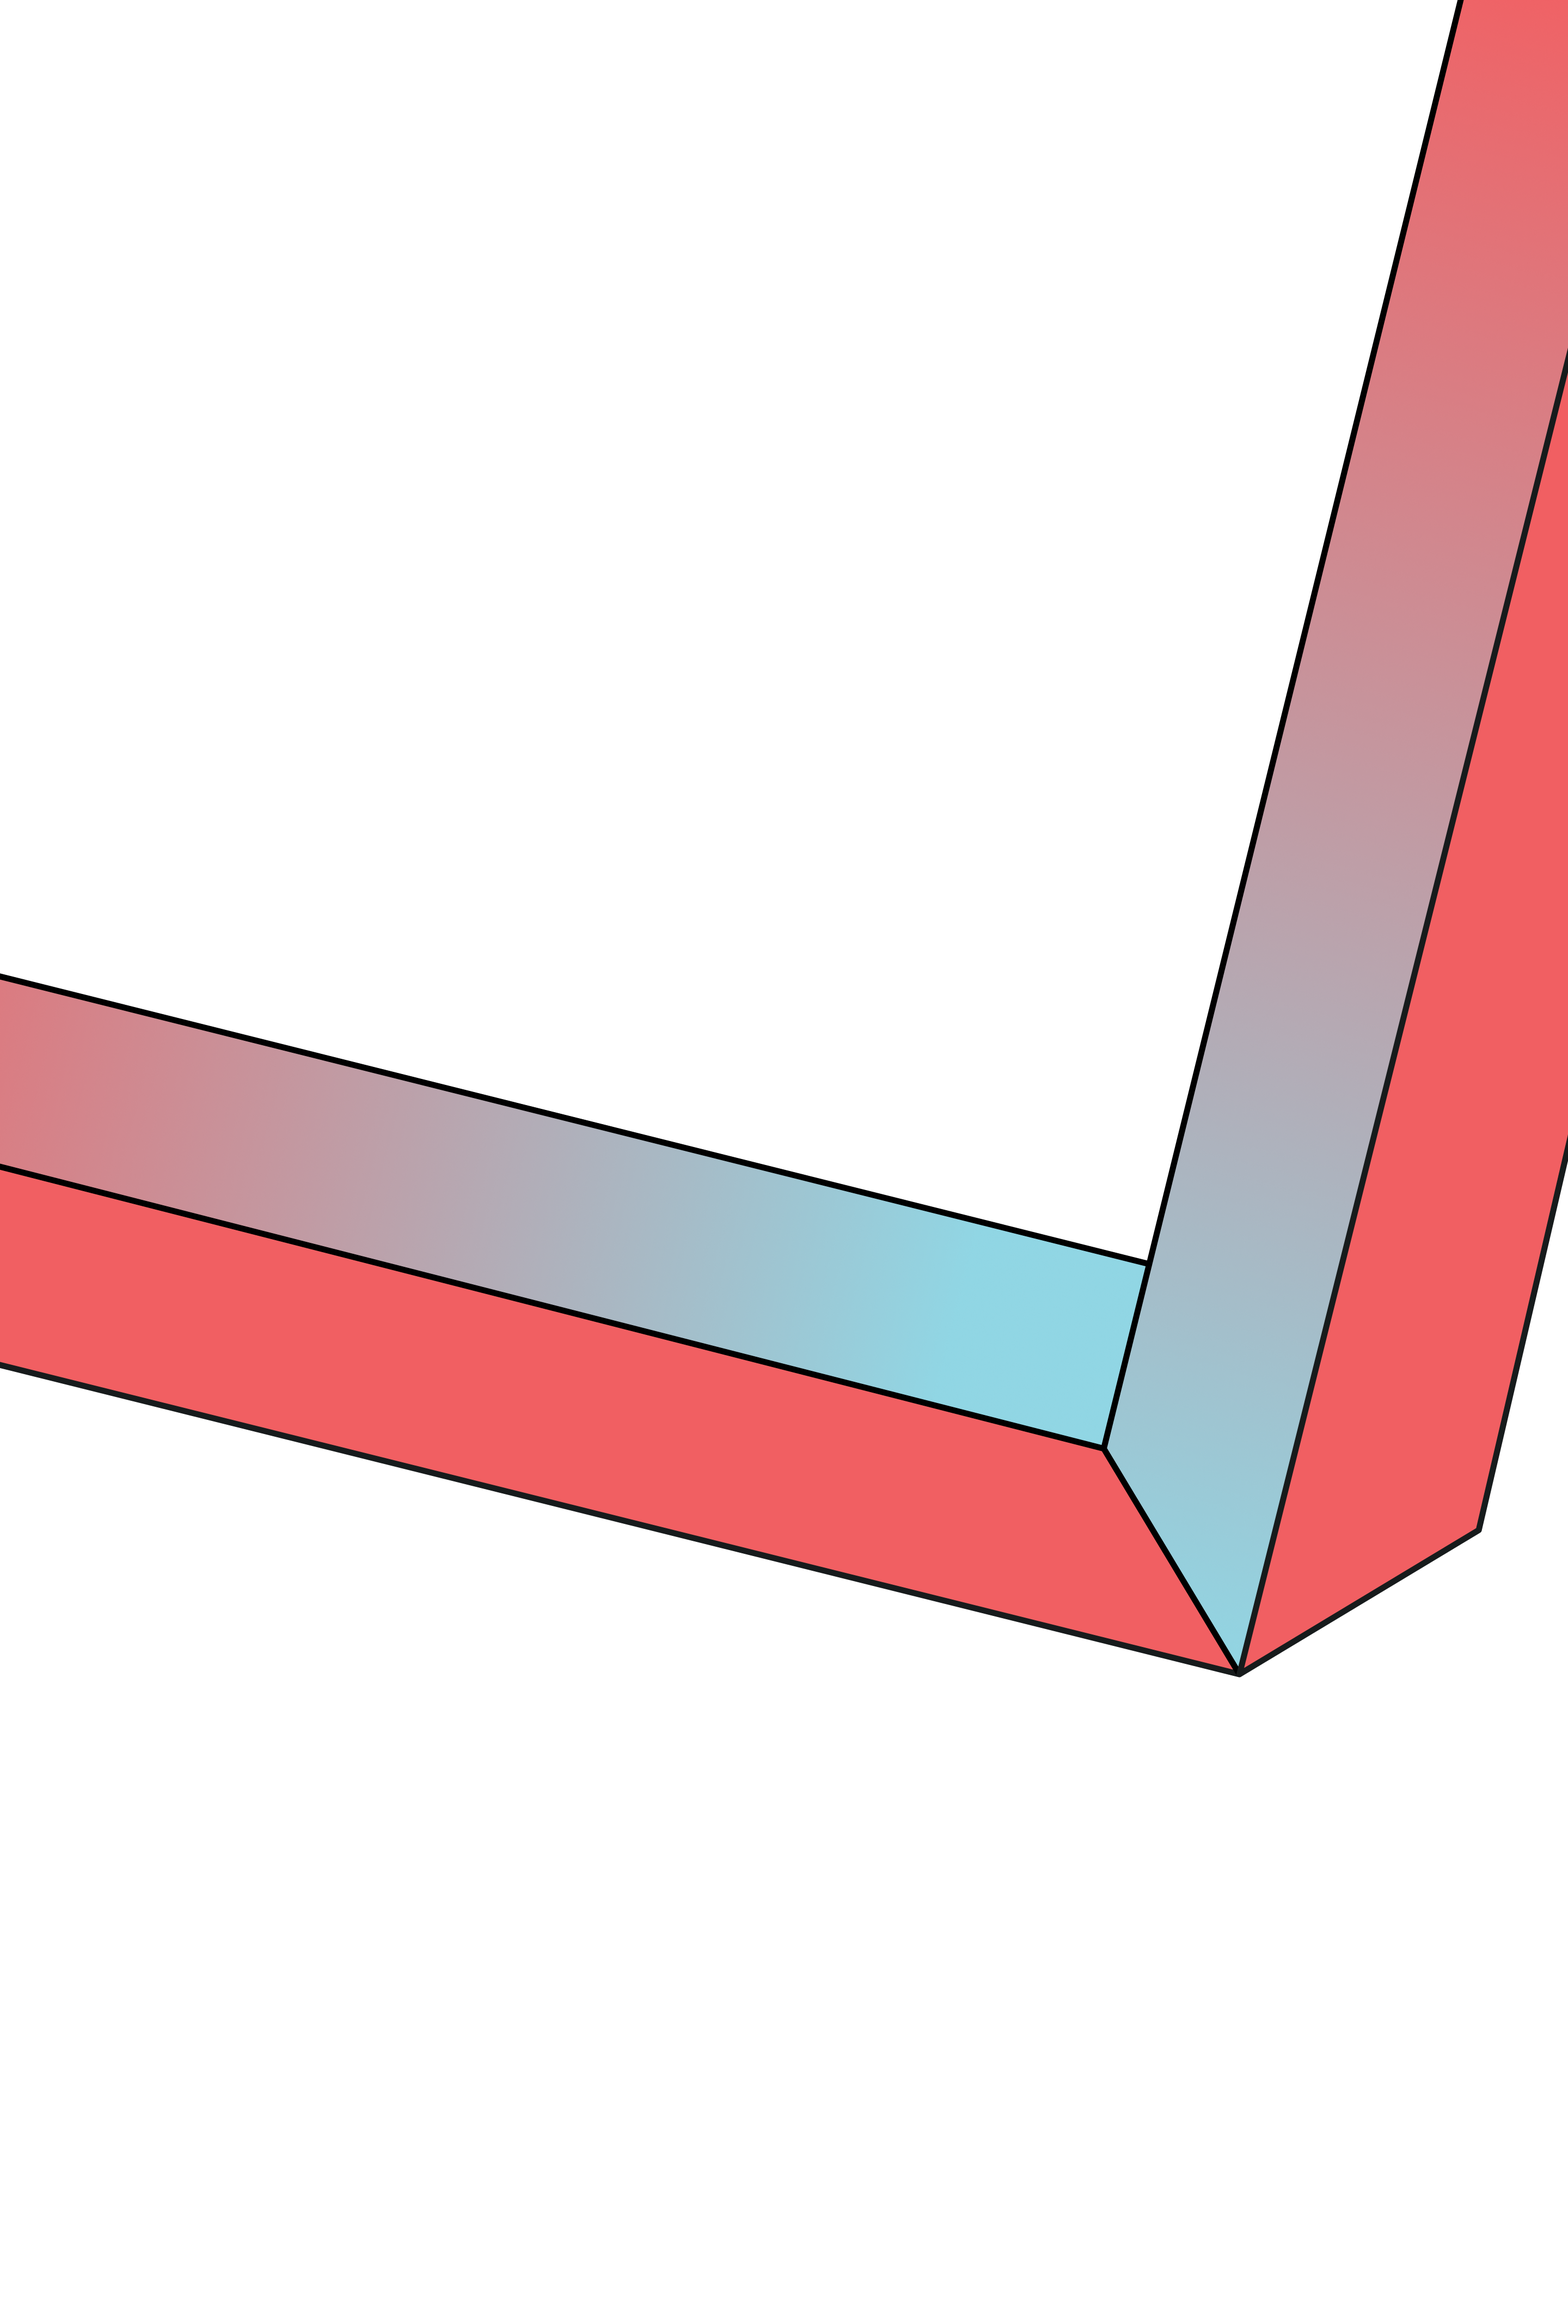
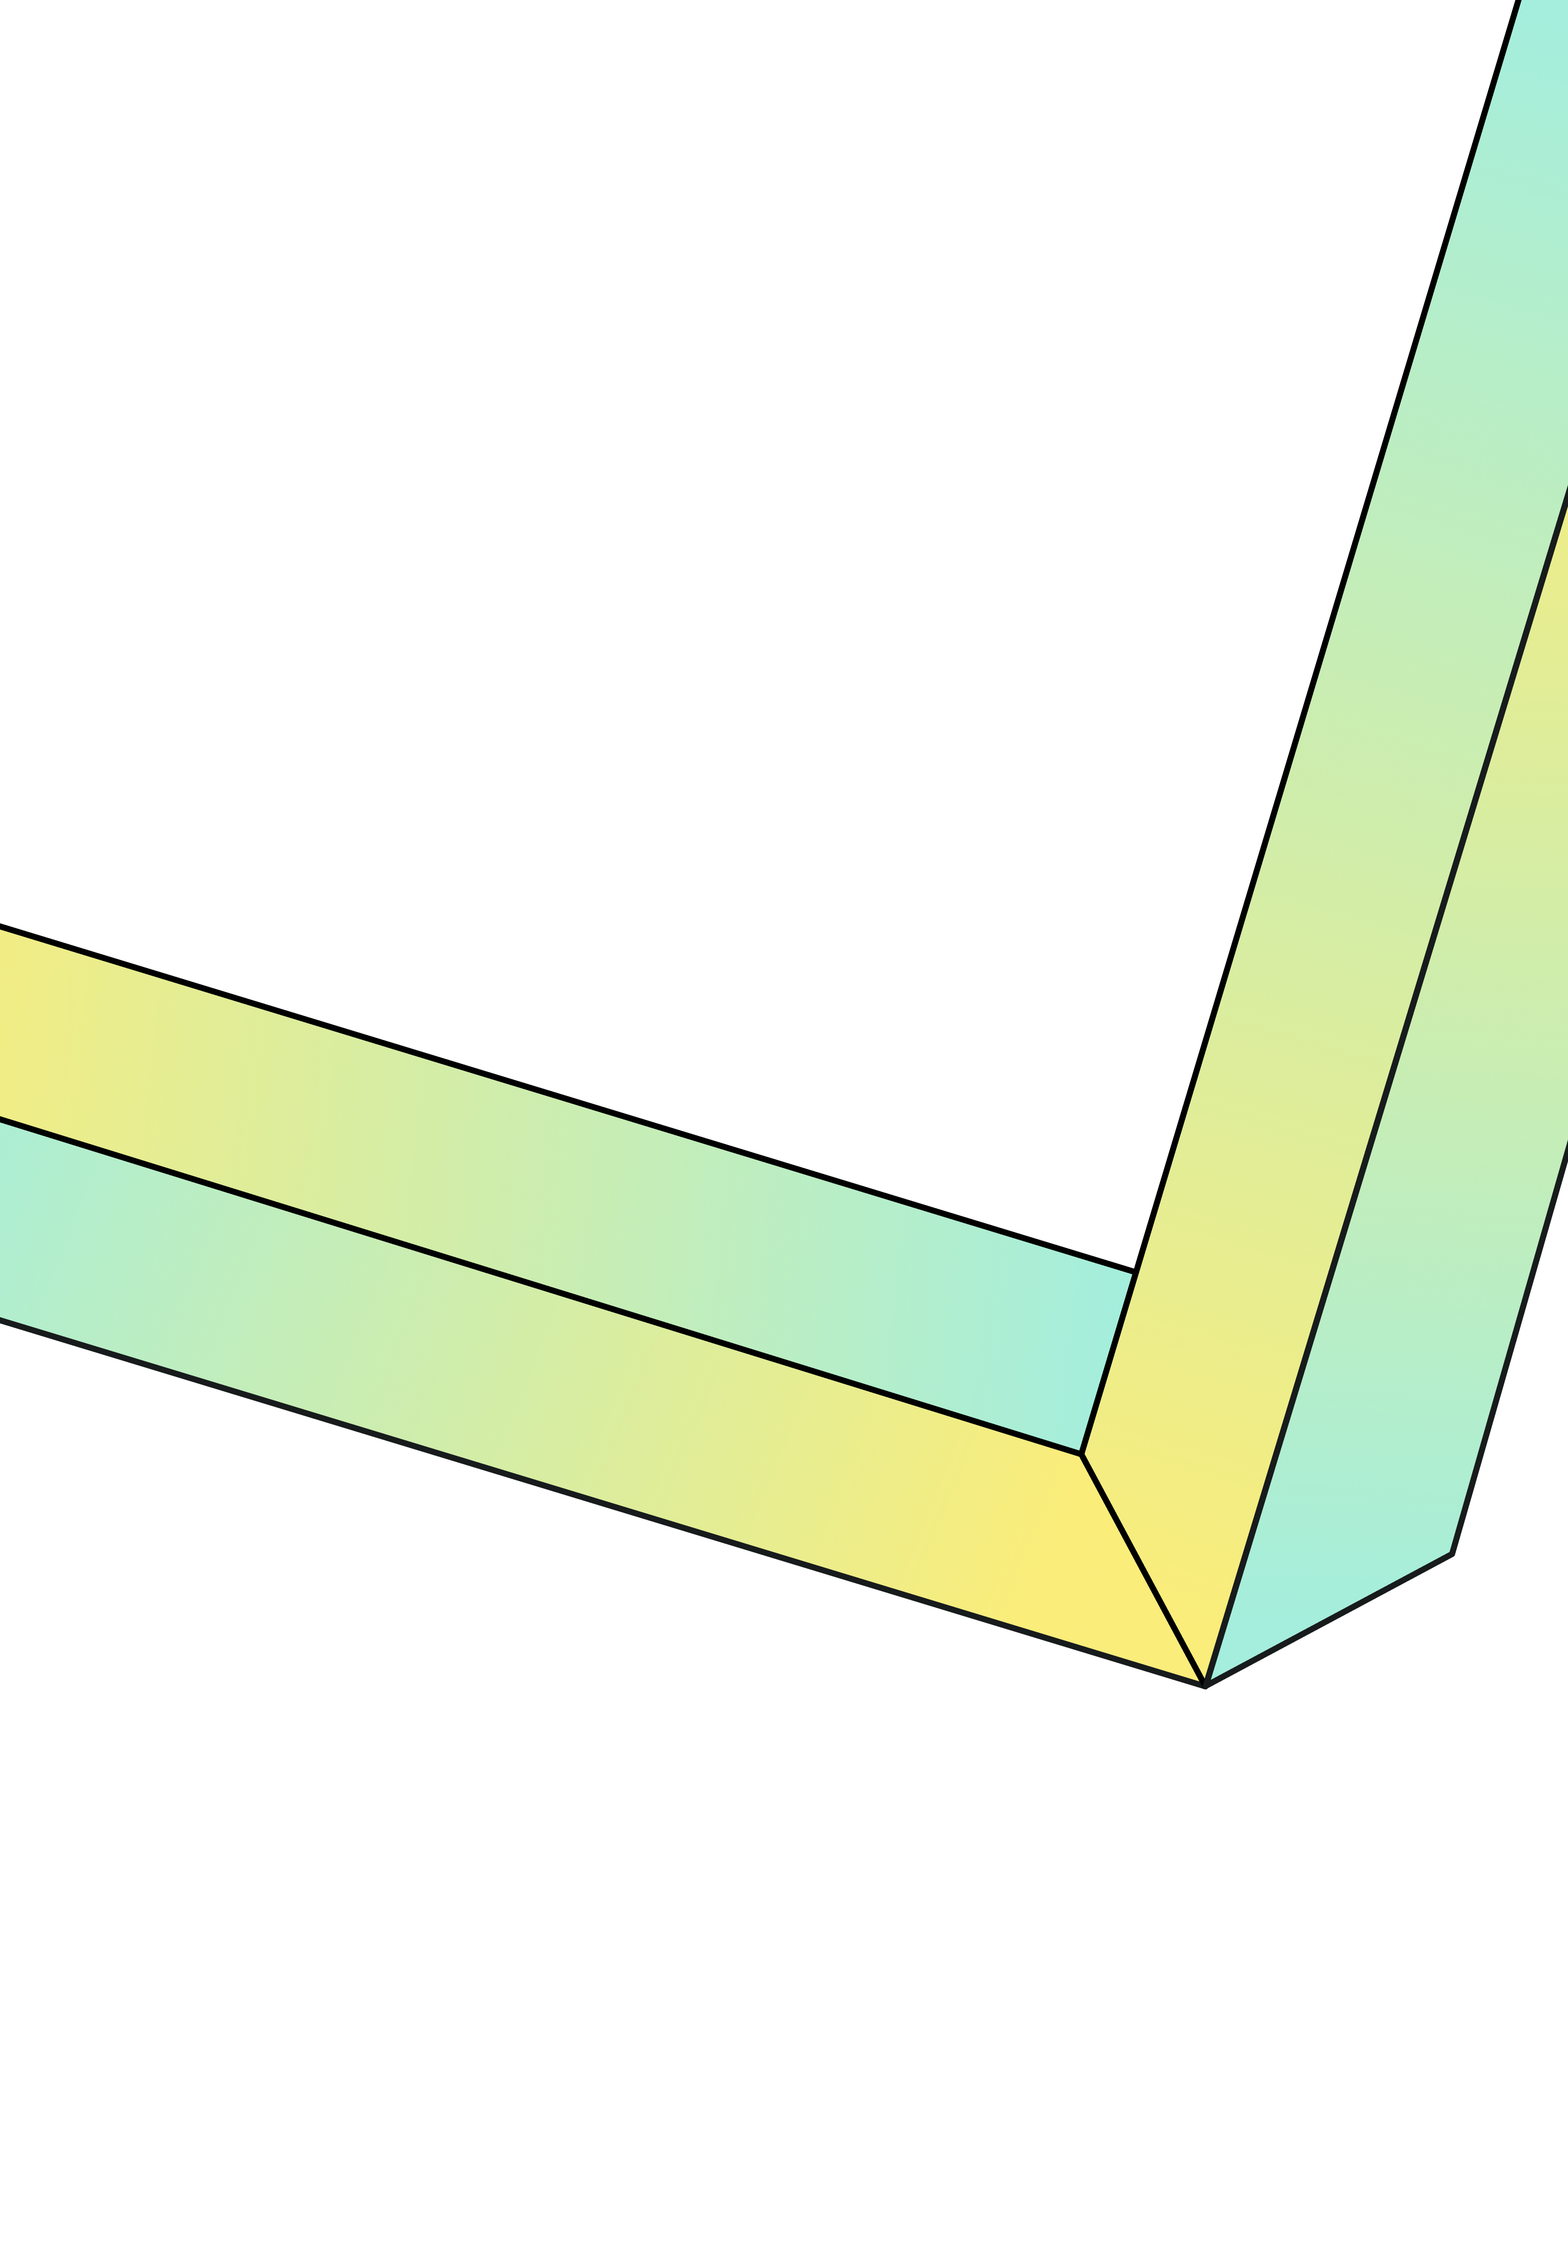
Changes in regards to Kargo feedback

Changed region(s): [[0.0, 0.0, 1.0, 0.7446]]

diff --git a/pages/index.js b/pages/index.js
@@ -17,15 +17,52 @@ import {bold, primary} from "../presentational/definitions"
 
 const formatText = text => text.replace("\n", "<br />")
 
+const LogoBanner = styled.div`
+  position: absolute;
+  z-index: 580;
+
+  top: -80px;
+  width: 100%;
+  height: 160px;
+
+  background-color: #f9ec7a;
+  border-bottom: 3px solid #000;
+
+  transform: skew(0deg, -1deg);
+
+  /* Permalink - use to edit and share this gradient: http://colorzilla.com/gradient-editor/#f9ec7a+0,a4eddc+100 */
+  background: rgb(249, 236, 122); /* Old browsers */
+  background: -moz-linear-gradient(
+    -45deg,
+    rgba(249, 236, 122, 1) 0%,
+    rgba(164, 237, 220, 1) 100%
+  ); /* FF3.6-15 */
+  background: -webkit-linear-gradient(
+    -45deg,
+    rgba(249, 236, 122, 1) 0%,
+    rgba(164, 237, 220, 1) 100%
+  ); /* Chrome10-25,Safari5.1-6 */
+  background: linear-gradient(
+    135deg,
+    rgba(249, 236, 122, 1) 0%,
+    rgba(164, 237, 220, 1) 100%
+  ); /* W3C, IE10+, FF16+, Chrome26+, Opera12+, Safari7+ */
+  filter: progid:DXImageTransform.Microsoft.gradient(
+      startColorstr="#f9ec7a",
+      endColorstr="#a4eddc",
+      GradientType=1
+    ); /* IE6-9 fallback on horizontal gradient */
+`
 const SiteTitle = styled.h1`
   position: relative;
   z-index: 100;
 
   box-sizing: border-box;
-  margin: 64px 24px 0 24px;
+  margin: 110px 24px 0 24px;
   padding: 64px 24px;
 
   font-size: 54px;
+  font-weight: ${bold};
 
   border: 3px solid black;
   color: black;
@@ -35,25 +72,17 @@ const SiteTitle = styled.h1`
 
   @media screen and (min-width: 660px) {
     max-width: 480px;
-    margin: 64px auto 0 auto;
-    padding: 128px 64px;
+    margin: 130px auto 0 auto;
+    padding: 100px 64px;
   }
 `
 const EventInfos = styled.div`
   position: relative;
-  z-index: 300;
+  z-index: 220;
+
+  box-sizing: border-box;
   margin: 24px 24px 0 24px;
 
-  @media screen and (min-width: 660px) {
-    left: 50%;
-    max-width: 275px;
-    margin: -50px 0 0 0;
-  }
-
-  padding: 12px;
-
-  border: 3px solid black;
-  background-color: #fcd2c6;
   color: #000;
   line-height: 1.4;
 
@@ -62,9 +91,22 @@ const EventInfos = styled.div`
   }
   div.EventAdresse {
     margin-top: 8px;
-    ${"" /* font-weight: ${bold}; */};
   }
+
+  @media screen and (min-width: 660px) {
+    max-width: 480px;
+    margin: 24px auto 24px auto;
+    ${"" /* padding: 128px 64px; */};
+  }
+  ${"" /* @media screen and (min-width: 830px) and (max-width: 1300px) {
+    padding: 12px;
+    border: 3px solid #000;
+    background-color: #fff;
+    z-index: 220;
+  } */};
 `
+const buttonColor = "#C769E3"
+const buttonColorLight = "#F1D9F8"
 const Button = styled.a`
   display: block;
   text-align: center;
@@ -72,22 +114,21 @@ const Button = styled.a`
   font-size: 24px;
   padding: 8px 12px;
 
-  border: 3px solid ${primary};
+  border: 3px solid ${buttonColor};
 
   &,
   &:visited {
     font-weight: ${bold};
-    color: ${primary};
+    color: ${buttonColor};
   }
   &:hover {
-    background-color: #fcd2c6;
+    background-color: ${buttonColorLight};
   }
   &:active {
-    background-color: ${primary};
+    background-color: ${buttonColor};
     color: #fff;
   }
 `
-
 const Wrapper = styled.div`
   position: relative;
   overflow: hidden;
@@ -106,7 +147,8 @@ export default class extends Component {
     const everythingLoaded = textsLoaded && imagesLoaded
     return (
       <>
-        <Logo />
+        <Logo url={textsLoaded && this.state.texts.TedxBernLink} />
+        {everythingLoaded && <LogoBanner />}
         <Spinner show={!everythingLoaded} />
         {everythingLoaded ? this.renderLoaded() : this.renderLoading()}
       </>
@@ -114,12 +156,13 @@ export default class extends Component {
   }
   renderLoaded() {
     const {texts, images} = this.state
+    const showSpeakers = texts.SpeakersAnzeigen === "yes"
     return (
       <ParallaxProvider>
         <Wrapper>
           <TriggerParallaxUpdate />
           <Separator />
-          <HeaderMotiv />
+          {/* <HeaderMotiv /> */}
           <SiteTitle>{texts.Claim}</SiteTitle>
           <EventInfos>
             <div className="EventDatumZeit">{texts.EventDatumZeit}</div>
@@ -134,27 +177,27 @@ export default class extends Component {
             text={texts.IntroText}
             addendum={() => (
               <p>
-                <Button href="#" target="_blank">
+                <Button href={texts.TicketingLink} target="_blank">
                   Hier Tickets reservieren
                 </Button>
               </p>
             )}
           />
 
-          {texts.SpeakersAnzeigen === "yes" && (
+          {showSpeakers && (
             <>
+              <Separator2 flipped={!showSpeakers} style={{marginTop: -400}} />
               <Title>Speakers</Title>
-              <Separator2 />
               <Speakers />
             </>
           )}
 
           <Title>Venue</Title>
-          <Separator2 flipped />
+          <Separator2 flipped={showSpeakers} />
           <Venue {...{texts, images}} />
 
           {/* <Text text={texts.Impressum} /> */}
-          <Footer />
+          <Footer {...{texts}} />
         </Wrapper>
       </ParallaxProvider>
     )

diff --git a/pages/_document.js b/pages/_document.js
@@ -1,5 +1,6 @@
 import Document, {Head, Main, NextScript} from "next/document"
 import {ServerStyleSheet} from "styled-components"
+import {normal} from "../presentational/definitions"
 
 export default class SiteDocument extends Document {
   render() {
@@ -27,12 +28,19 @@ export default class SiteDocument extends Document {
               __html: `
             body {
               font-family: "Roboto", "Helvetica", sans-serif;
+              font-weight: ${normal};
 
-              background: linear-gradient(180deg, #F15F62 0%, #90D5E3 36.56%, #8BA3CF 66.37%, #FBB15E 100%);
+              /* Permalink - use to edit and share this gradient: http://colorzilla.com/gradient-editor/#f9ec7a+0,a4eddc+40,b8fbec+60,c769e3+100 */
+              background: rgb(249,236,122); /* Old browsers */
+              background: -moz-linear-gradient(top, rgba(249,236,122,1) 0%, rgba(164,237,220,1) 40%, rgba(184,251,236,1) 60%, rgba(199,105,227,1) 100%); /* FF3.6-15 */
+              background: -webkit-linear-gradient(top, rgba(249,236,122,1) 0%,rgba(164,237,220,1) 40%,rgba(184,251,236,1) 60%,rgba(199,105,227,1) 100%); /* Chrome10-25,Safari5.1-6 */
+              background: linear-gradient(to bottom, rgba(249,236,122,1) 0%,rgba(164,237,220,1) 40%,rgba(184,251,236,1) 60%,rgba(199,105,227,1) 100%); /* W3C, IE10+, FF16+, Chrome26+, Opera12+, Safari7+ */
+              filter: progid:DXImageTransform.Microsoft.gradient( startColorstr='#f9ec7a', endColorstr='#c769e3',GradientType=0 ); /* IE6-9 */
             }
             * {
               margin: 0;
               padding: 0;
+              font-weight: inherit;
             }
 
             a, a:visited {

diff --git a/segments/Footer.js b/segments/Footer.js
@@ -3,6 +3,7 @@ import Link from "next/link"
 import styled from "styled-components"
 
 import {Title, Segment, Speaker} from "../presentational"
+import {primary} from "../presentational/definitions"
 
 const Img = styled.img`
   width: 22px;
@@ -12,20 +13,24 @@ const Outer = styled.div`
   position: relative;
   z-index: 500;
 
-  margin-top: 240px;
-  padding: 32px 0 48px 0;
-  background-color: #000;
-  border-top: 4px solid #fff;
+  margin: 240px 0 -16px 0;
+  padding: 32px 0 64px 0;
+  background-color: #fff;
+  border-top: 4px solid #000;
+
+  transform: skew(0deg, 1deg);
 `
 const Inner = styled.div`
   max-width: 900px;
   margin: 0 auto;
   padding: 0 12px;
 
+  transform: skew(0deg, -1deg);
+
   p {
     padding-top: 16px;
 
-    color: #fff;
+    color: #000;
   }
 
   @media screen and (min-width: 660px) {
@@ -41,6 +46,12 @@ const Inner = styled.div`
 
       text-align: center;
     }
+  }
+`
+const A = styled.a`
+  &,
+  &:visited {
+    color: ${primary};
   }
 `
 
@@ -65,12 +76,9 @@ export class Footer extends React.Component {
               This independent TEDx event is operated under license from TED.
             </p>
             <p style={{width: 160}}>
-              <a
-                href="https://nginx-tedxbern-com-develop.ch.amazee.io/"
-                target="_blank"
-              >
+              <A href={this.props.texts.TedxBernLink} target="_blank">
                 Zurück zu TEDx Bern
-              </a>
+              </A>
             </p>
           </Inner>
         </Outer>

diff --git a/presentational/Spinner.js b/presentational/Spinner.js
@@ -11,16 +11,38 @@ const Fullsize = styled.div`
   width: 100%;
   height: 100%;
   z-index: 500;
-  background-color: ${primary};
   opacity: ${props => props.opacity};
   transition: opacity 2s ease;
+
+  /* Permalink - use to edit and share this gradient: http://colorzilla.com/gradient-editor/#f9ec7a+0,a4eddc+100 */
+  background: rgb(249, 236, 122); /* Old browsers */
+  background: -moz-linear-gradient(
+    -45deg,
+    rgba(249, 236, 122, 1) 0%,
+    rgba(164, 237, 220, 1) 100%
+  ); /* FF3.6-15 */
+  background: -webkit-linear-gradient(
+    -45deg,
+    rgba(249, 236, 122, 1) 0%,
+    rgba(164, 237, 220, 1) 100%
+  ); /* Chrome10-25,Safari5.1-6 */
+  background: linear-gradient(
+    135deg,
+    rgba(249, 236, 122, 1) 0%,
+    rgba(164, 237, 220, 1) 100%
+  ); /* W3C, IE10+, FF16+, Chrome26+, Opera12+, Safari7+ */
+  filter: progid:DXImageTransform.Microsoft.gradient(
+      startColorstr="#f9ec7a",
+      endColorstr="#a4eddc",
+      GradientType=1
+    ); /* IE6-9 fallback on horizontal gradient */
 `
 
 export class Spinner extends Component {
   render() {
     return (
       <Fullsize opacity={this.props.show ? 1 : 0}>
-        {this.props.show && <Loading />}
+        {this.props.show && <Loading color="#000" />}
       </Fullsize>
     )
   }

diff --git a/presentational/Logo.js b/presentational/Logo.js
@@ -26,7 +26,9 @@ export class Logo extends React.Component {
     return (
       <React.Fragment>
         <Wrapper>
-          <Img src="/static/TEDxBern.png" />
+          <a href={this.props.url} target="_blank">
+            <Img src="/static/TEDxBern.png" />
+          </a>
         </Wrapper>
       </React.Fragment>
     )

diff --git a/segments/Text.js b/segments/Text.js
@@ -20,7 +20,7 @@ const InfoText = styled.p`
   font-weight: ${bold};
   line-height: 1.5;
 
-  background-color: #f3efaa;
+  background-color: #fff;
   color: #000;
 `
 const Addendum = styled.div`

diff --git a/presentational/Separator.js b/presentational/Separator.js
@@ -7,7 +7,8 @@ const Img = styled.img`
   width: 100%;
   height: 100%;
   pointer-events: none;
-  ${"" /* height: 250px; */};
+
+  margin-top: 200px;
 `
 
 injectGlobal`
